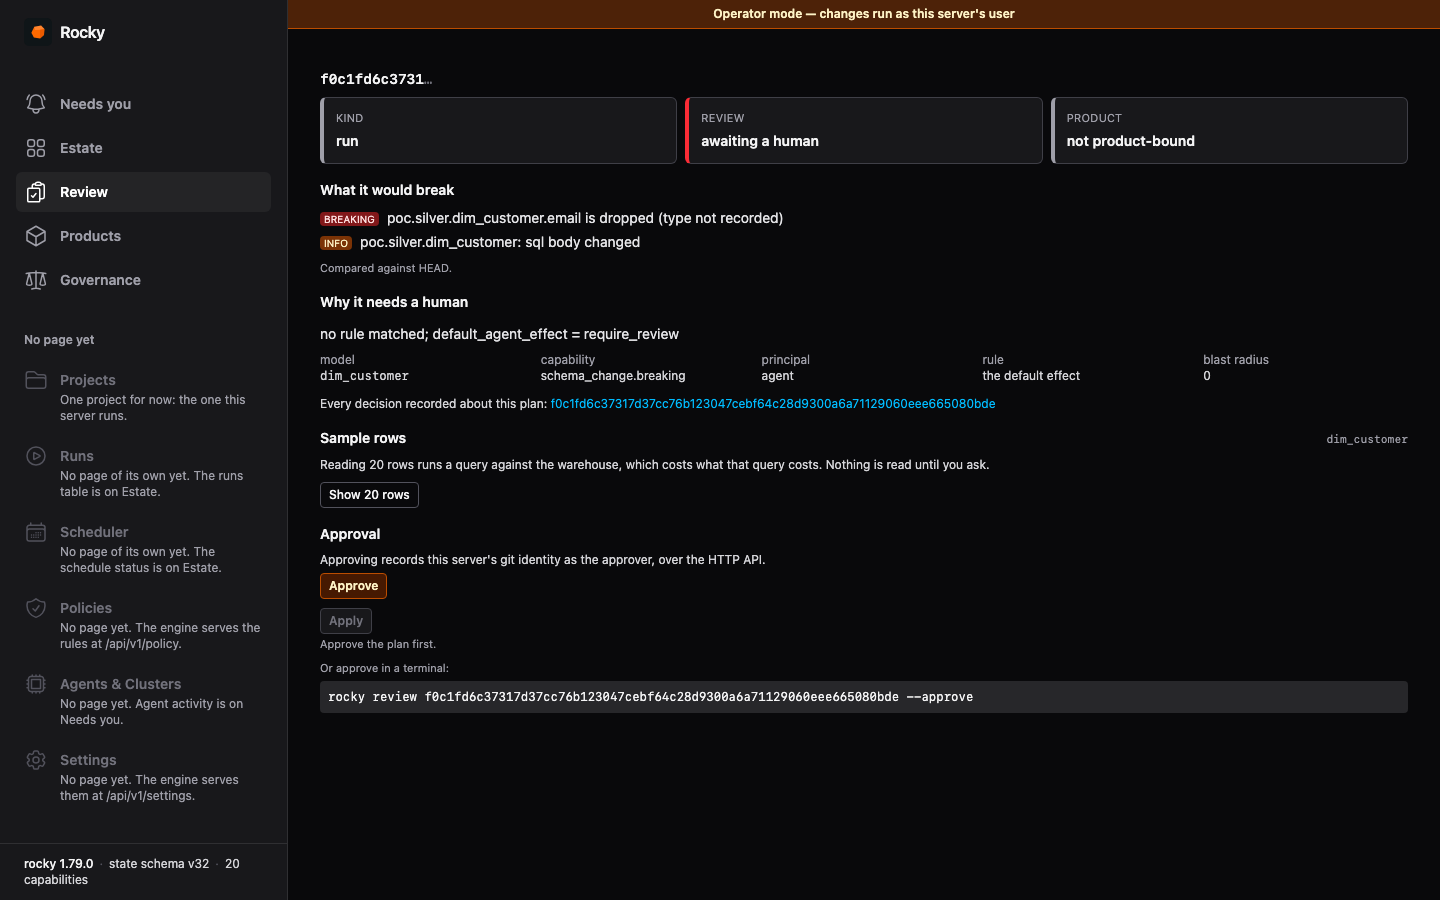
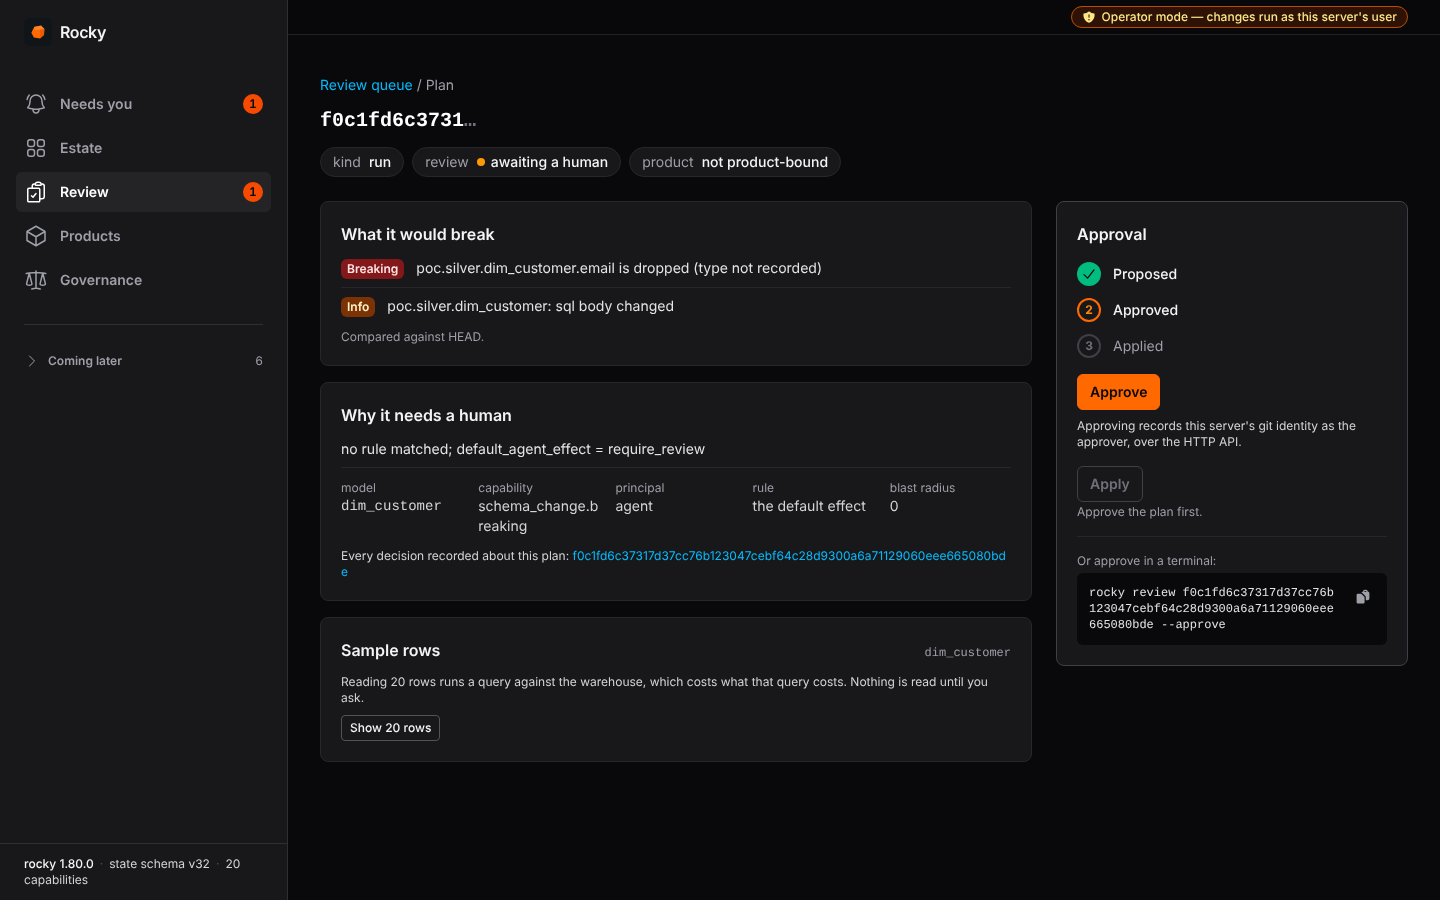
docs(engine/ui): recapture the browser UI screenshots for the redesign
Rebuilt with cli-recording/record-ui-screenshots.sh --publish against a
rocky built from this branch with --features ui, so the images show the
redesign and the sidebar badges. The script's leak check passed: only
the neutral demo identity is on screen. Alt texts for the brief and the
plan page now describe what the new images show.

Claude-Session: https://claude.ai/code/session_014hEWQy1ZKjWzLfDzcodVPM

diff --git a/docs/src/content/docs/guides/browser-ui.md b/docs/src/content/docs/guides/browser-ui.md
@@ -85,7 +85,7 @@ The brief is the estate digest that `rocky brief` prints, for a window you pick 
 
 The first card, which gives the area its name, is what needs you. Each pending plan is its own row, with a **Review plan** button that opens it in Review. The rest are the agents' policy decisions, runs, autonomy (degraded rules and active freezes), cost, drift, freshness, quality and the scheduler. A bar over the policy decisions shows how many were allowed, needed review, or were denied.
 
-![The brief: one pending plan under Needs you, ten agent decisions with their capability, effect and rule, two successful runs, no degraded autonomy, and a cost card](/ui-governor-brief.png)
+![The Needs you screen: a badge of 1 on Needs you and on Review, a summary line saying one decision waits and two runs succeeded, one pending plan for revenue_daily with a Review plan button, and a bar over ten agent decisions, five allowed and five needing review](/ui-governor-brief.png)
 
 A card says so when its data was not available. A signal the ledger does not hold shows as **not recorded**, never as a zero. In the summary line, a part with nothing in the window says so in its own words, such as "no runs in the window". A part the engine could not read says **not recorded**, never zero.
 
@@ -103,7 +103,7 @@ The Review screen lists the plans that the policy plane sent to a human, by a ru
 
 Open a plan to see why it waits:
 
-![One plan in the Review screen: an agent's run plan awaiting a human, a breaking finding that the email column of dim_customer is dropped, the default policy effect that required review, a sample-rows button, an Approve button, and the rocky review --approve command to copy](/ui-review.png)
+![One plan in the Review screen: an agent's run plan awaiting a human, a breaking finding that the email column of dim_customer is dropped, the default policy effect that required review, a sample-rows button, and an Approval panel with the Proposed, Approved and Applied steps, an Approve button and the rocky review --approve command to copy](/ui-review.png)
 
 The plan screen shows:
 
